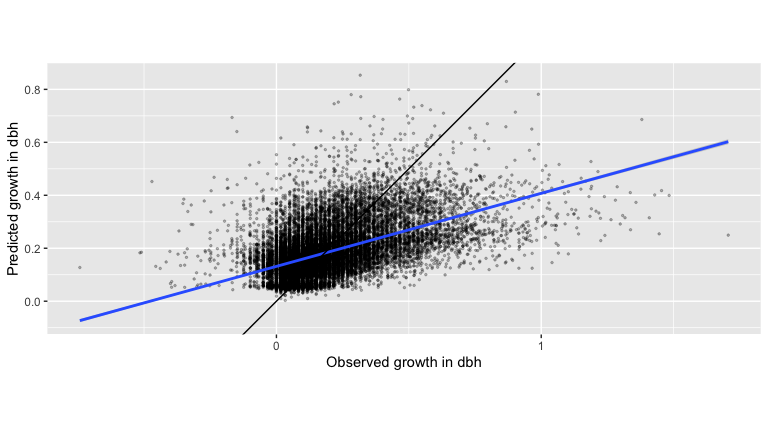
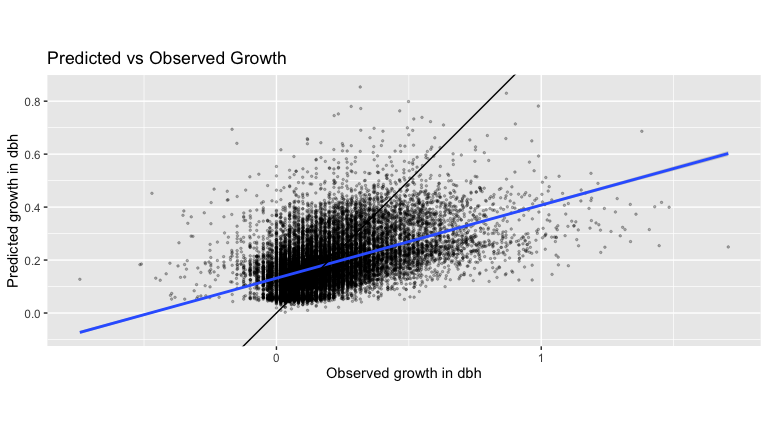
tweaked README

diff --git a/README.md b/README.md
@@ -300,7 +300,7 @@ ggplot() +
 
 <img src="man/figures/README-unnamed-chunk-12-1.png" width="100%" />
 
-#### Spatial cross-validation
+#### Defining spatial cross-validation folds
 
 We use the [`blockCV`](https://github.com/rvalavi/blockCV) package to
 define the spatial grid, whose elements will act as the folds in our
@@ -469,6 +469,9 @@ understand what controls individual growth.
 bw_predict <- focal_vs_comp_bw %>% 
   predict_bayesian_model(model_specs = bw_specs, posterior_param = bw_fit_model)
 
+# TODO: Convert output of predict_bayesian_model() to be of focal_vs_focal type
+# TODO: Preserve geometry variable, that way we can easily create residual plots
+
 bw_predict %>%
   group_by(focal_ID, focal_notion_of_species) %>%
   # Since for the same focal tree all growth & growth_hat values are the same:
@@ -478,22 +481,26 @@ bw_predict %>%
   stat_smooth(method = 'lm') +
   geom_abline(slope = 1, intercept = 0) +
   coord_fixed() + 
-  labs(x = "Observed growth in dbh", y = "Predicted growth in dbh")
+  labs(
+    x = "Observed growth in dbh", y = "Predicted growth in dbh", 
+    title = "Predicted vs Observed Growth"
+  )
 ```
 
 <img src="man/figures/README-unnamed-chunk-19-1.png" width="100%" />
 
-  - `predict_bayesian_model()`.
-      - Inputs: `focal_and_comp`, `model_specs`, `posterior_param`
-      - Output: `focal_and_comp` with updated `growth_hat` variable
-  - Show observed vs predicted growth
+### Run spatial cross-validation
+
   - CV: `run_cv()` is a wrapper to `fit_bayesian_model()` and
     `predict_bayesian_model()`.
+
+### Run permutations
+
   - Permutation test:
       - Add line to that shuffles competitor species within
         `focal_and_comp` just before fitting model
       - permutation AND CV: add `run_shuffle` argument to `run_cv()`
 
-### Model output and performance
+### Visualize posterior distributions
 
-  - Make plot posterior parameter functions
+  - Plot posterior distributions of all parameters
